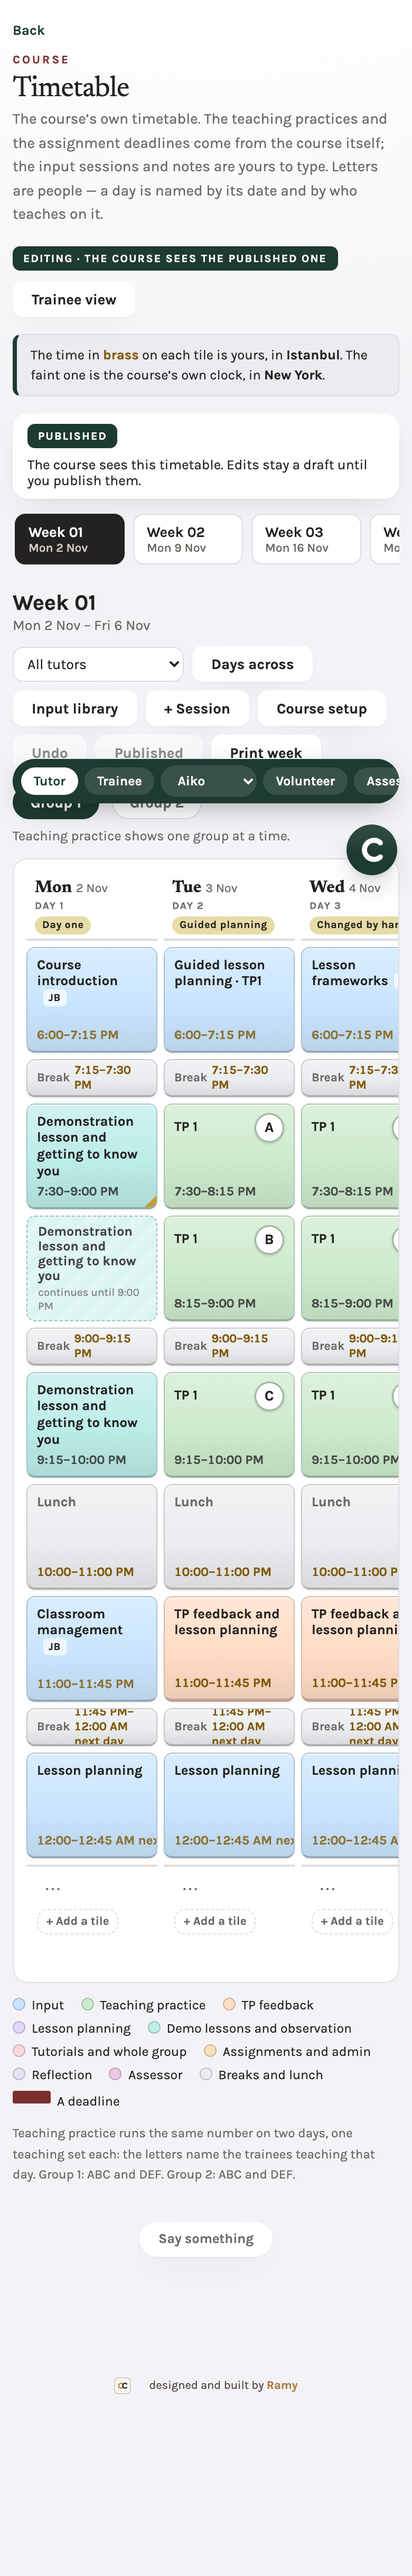
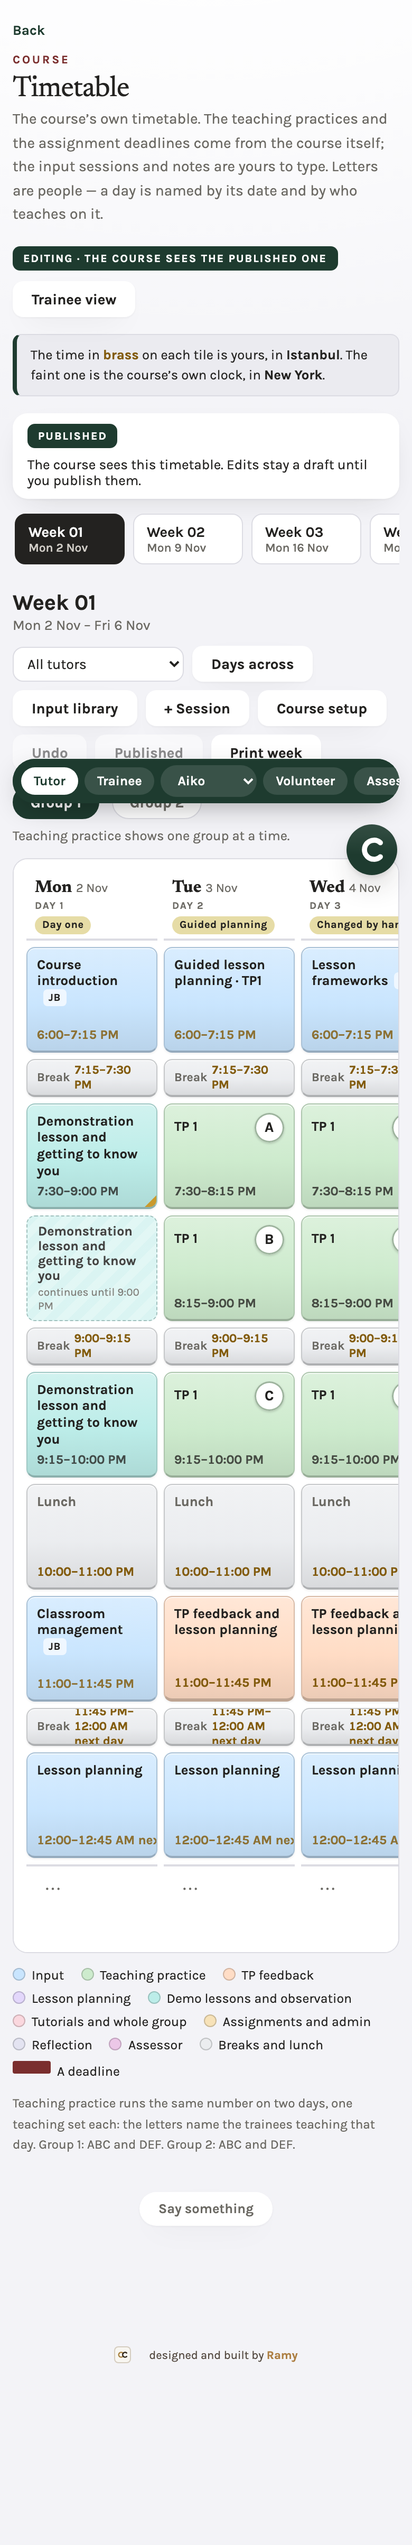
Timetable: no + Add a tile (Ramy, 30 Oct 2026); + Session and the empty places add sessions, as his design has it. The day's ⋯ menu stays. Not pushed.

diff --git a/23_timetable.html b/23_timetable.html
@@ -1385,7 +1385,6 @@ function dayHTML(day, B, idx){
       ${EDIT && pinned(day.date) ? '<span class="pin" title="Copying a day’s shape leaves this one alone">Pinned</span>' : ''}
       ${EDIT ? `<button type="button" class="more" data-menu="${esc(day.date)}" aria-label="Options for this day">⋯</button>` : ''}</div>
     <div class="body" style="height:${H}px" data-start="${B.from}">${hours}${ses.map(x => tileHTML(day, x, B, tpTiles.indexOf(x), teachers)).join('')}${dues}${isToday ? '<div class="nowbar" hidden></div>' : ''}</div>
-    ${EDIT ? `<button type="button" class="addtile" data-add="${esc(day.date)}">+ Add a tile</button>` : ''}
     ${notes}
   </div>`;
 }
@@ -1496,7 +1495,7 @@ function weekBoard(w, n){
       + '</div>';
     /* THE END OF THE DAY (Ramy, 29 Oct 2026: "the notes ... add a tile, LSRT and all this stuff, I want this on the right,
        and if we're going down, at the bottom"): the deadlines, the note and the day's buttons follow its last tile */
-    const acts = EDIT && !day.closed ? `<div class="dacts">${pinned(day.date) ? '<span class="pin" title="Copying a day’s shape leaves this one alone">Pinned</span>' : ''}<button type="button" class="more" data-menu="${esc(day.date)}" aria-label="Options for this day">⋯</button><button type="button" class="addtile" data-add="${esc(day.date)}" title="A new tile at the end of the day">+ Add a tile</button></div>` : '';
+    const acts = EDIT && !day.closed ? `<div class="dacts">${pinned(day.date) ? '<span class="pin" title="Copying a day’s shape leaves this one alone">Pinned</span>' : ''}<button type="button" class="more" data-menu="${esc(day.date)}" aria-label="Options for this day">⋯</button></div>` : '';   /* no + Add a tile: + Session and the empty places add sessions (Ramy, 30 Oct 2026) */
     const noteEnd = hasEnd ? `<div class="dnoteend">${fl.length ? `<div class="flags">${fl.join('')}</div>` : ''}${day.notes ? '<div class="nt"><b>Note</b> ' + esc(day.notes) + '</div>' : ''}${mk ? '<div class="nt">' + mk + '</div>' : ''}${acts}</div>` : '';
     if (day.closed) return dh + `<div class="closedmsg">${EDIT ? 'Closed · click the date to reopen' : 'No course today'}</div>`;
     /* (the note's place is kept on a closed day too, so the rows still line up) */
